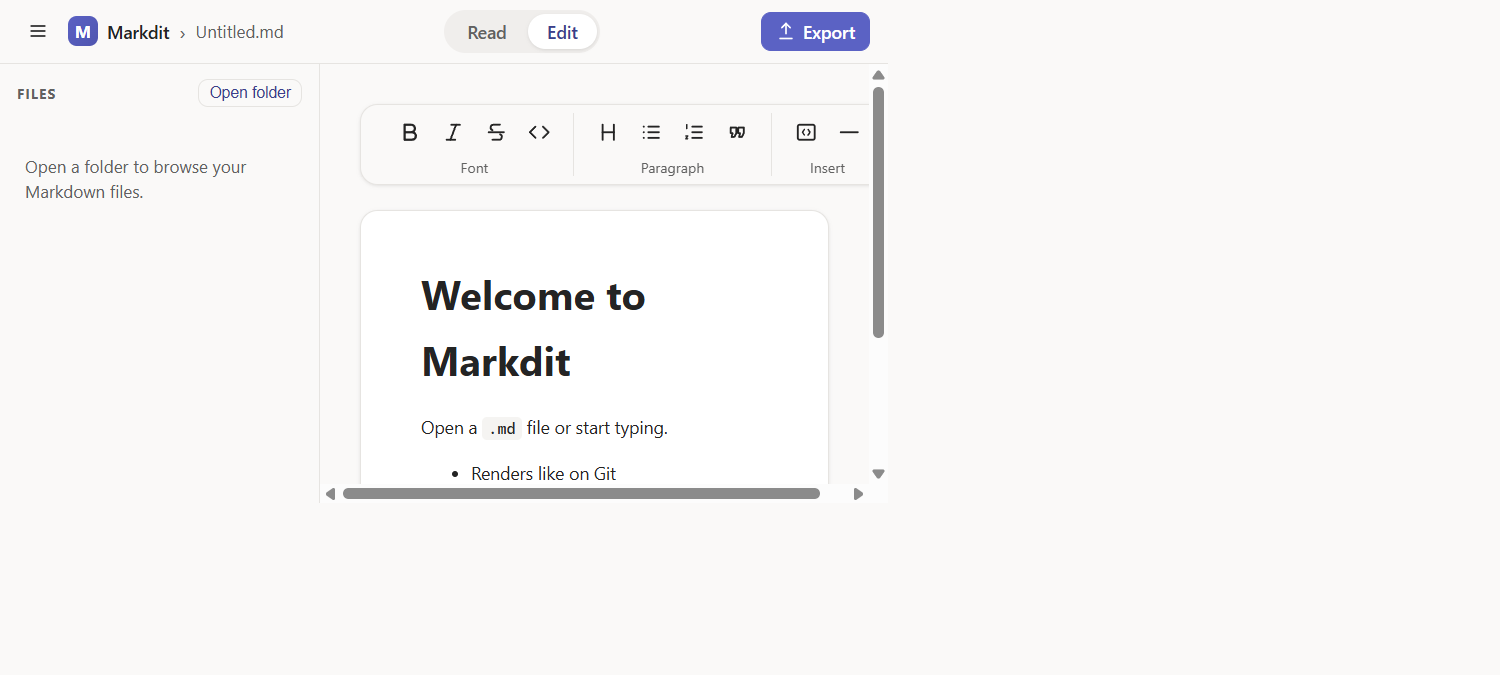
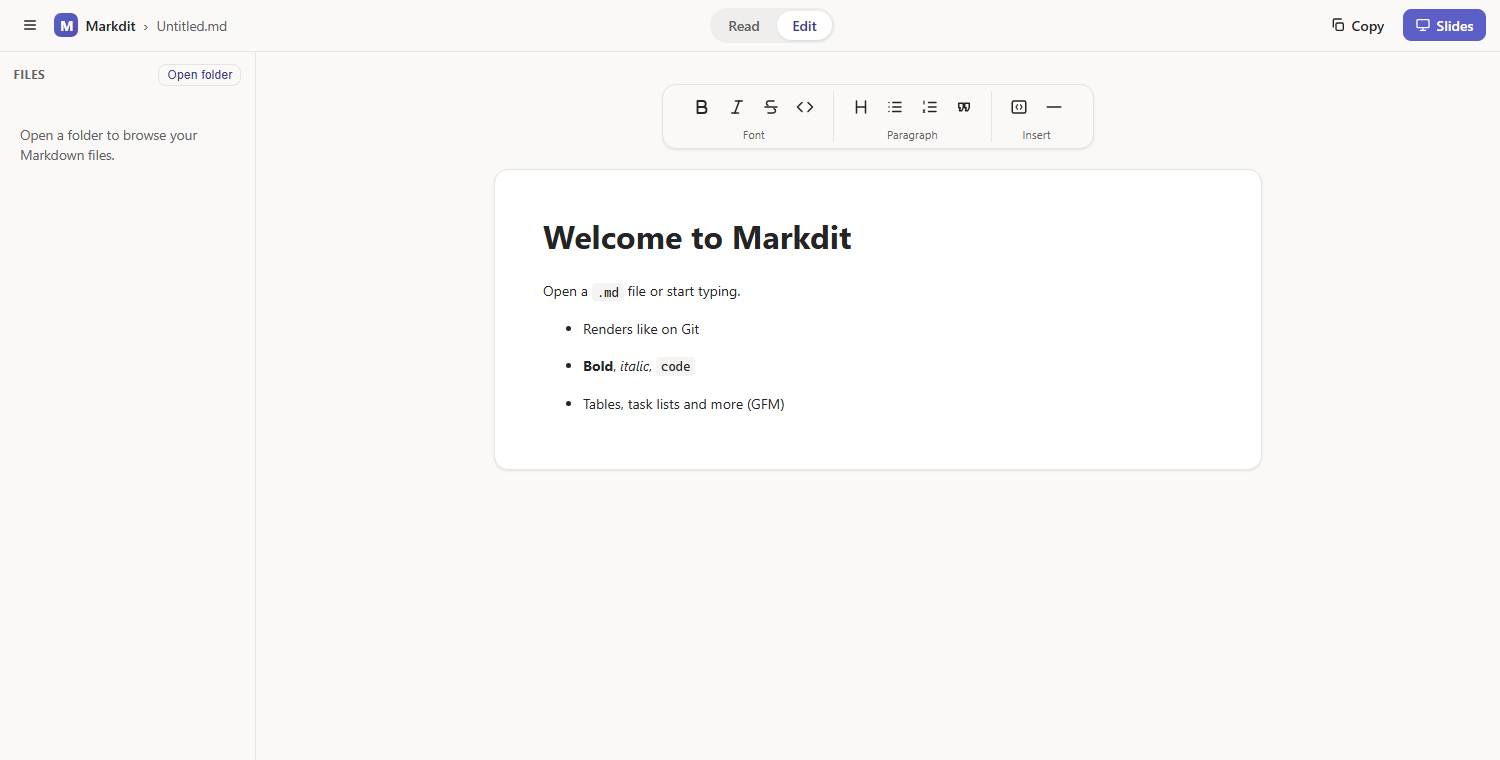
docs: refresh screenshots and replace build steps with download section
Recapture read-view and edit-view screenshots showing the Copy/Slides toolbar (no more Export). Remove the stale export-dialog screenshot. Replace the build-from-source instructions in the README with a Download section linking to GitHub Releases.

diff --git a/README.md b/README.md
@@ -35,6 +35,19 @@ then copy the Markdown, save it, or export a self-contained HTML deck.
 6. **Slides** — generate a Marp deck from the document, preview it, switch the
    theme, and export it as self-contained HTML — all on-device.
 
+## Download
+
+Grab the latest Windows build from the
+[**Releases** page](https://github.com/EtienneSIG/Markdit/releases/latest):
+
+- **`Markdit_<version>_x64-setup.exe`** — recommended installer (per-user, no
+  admin rights, clean updates and uninstall).
+- **`Markdit_<version>_x64_en-US.msi`** — Windows Installer package.
+- **`markdit.exe`** — standalone portable executable (no installation).
+
+Windows 11 already ships the required WebView2 runtime; on Windows 10 the
+installer fetches it automatically if needed.
+
 ## Regulatory compliance
 
 Markdit targets EU and North American markets and is held to GDPR, the European
@@ -107,35 +120,6 @@ To refresh the golden round-trip corpus after an intentional engine change:
 ```powershell
 node scripts/generate-corpus.mjs
 ```
-
-### Build a Windows executable
-
-The desktop build requires the Rust toolchain and the Tauri prerequisites
-(Microsoft C++ Build Tools and the WebView2 runtime, which ships with Windows
-11). To produce the app and its Windows installers:
-
-```powershell
-npm run tauri build
-```
-
-> **OneDrive note:** if the repository lives inside a synced OneDrive folder,
-> Cargo build scripts can fail with "output path is not a writable directory".
-> Redirect Cargo's target directory outside OneDrive before building:
->
-> ```powershell
-> $env:CARGO_TARGET_DIR = "C:\Temp\markdit-target"
-> npm run tauri build
-> ```
-
-The build outputs land under the Cargo target directory (`src-tauri/target/release/`
-by default, or `$env:CARGO_TARGET_DIR\release` when redirected):
-
-- `markdit.exe` — the standalone application executable.
-- `bundle/msi/Markdit_<version>_x64_en-US.msi` — Windows Installer package.
-- `bundle/nsis/Markdit_<version>_x64-setup.exe` — NSIS setup (per-user install).
-
-> Installer code-signing is optional for local builds; see
-> [SECURITY.md](SECURITY.md) for the production signing and update model.
 
 Markdit is **local-first**. On first run telemetry is off, remote content is
 blocked, and no cloud consents exist. Nothing leaves the device without an